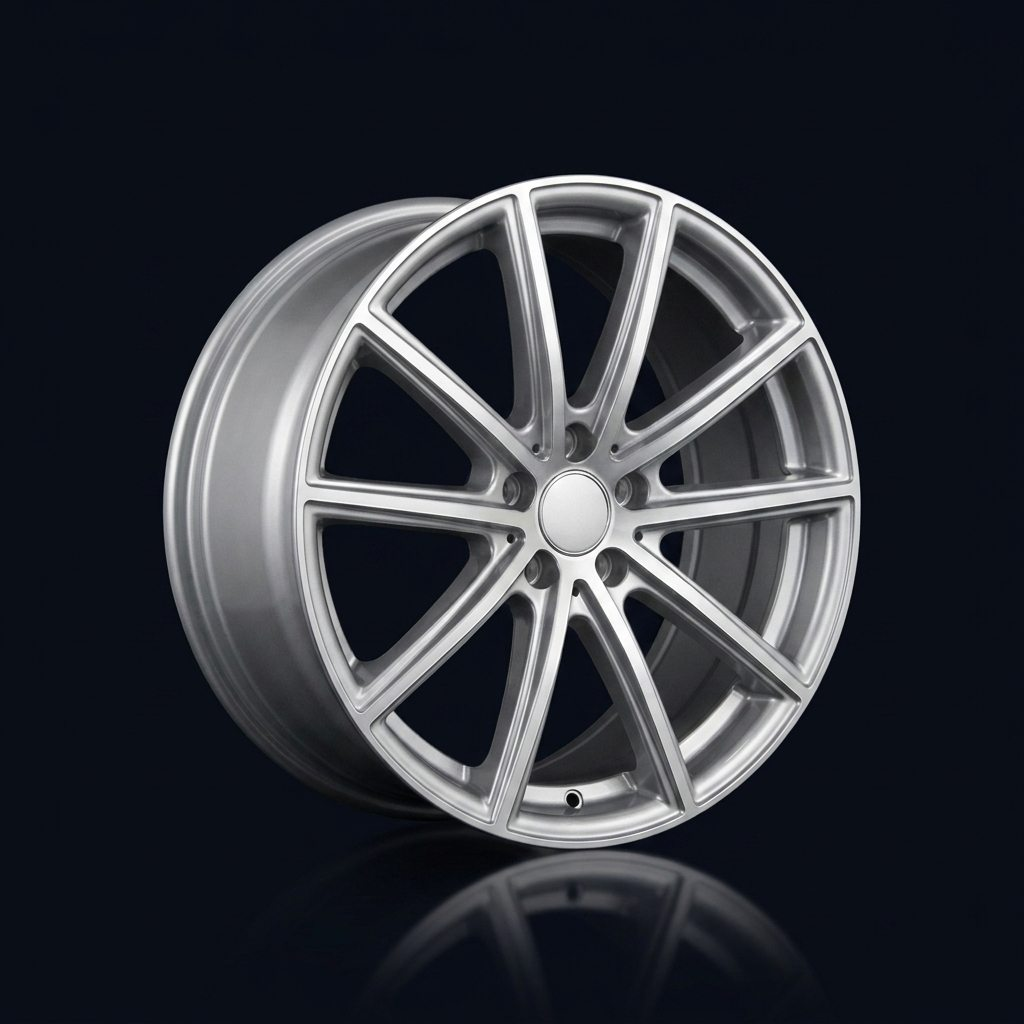
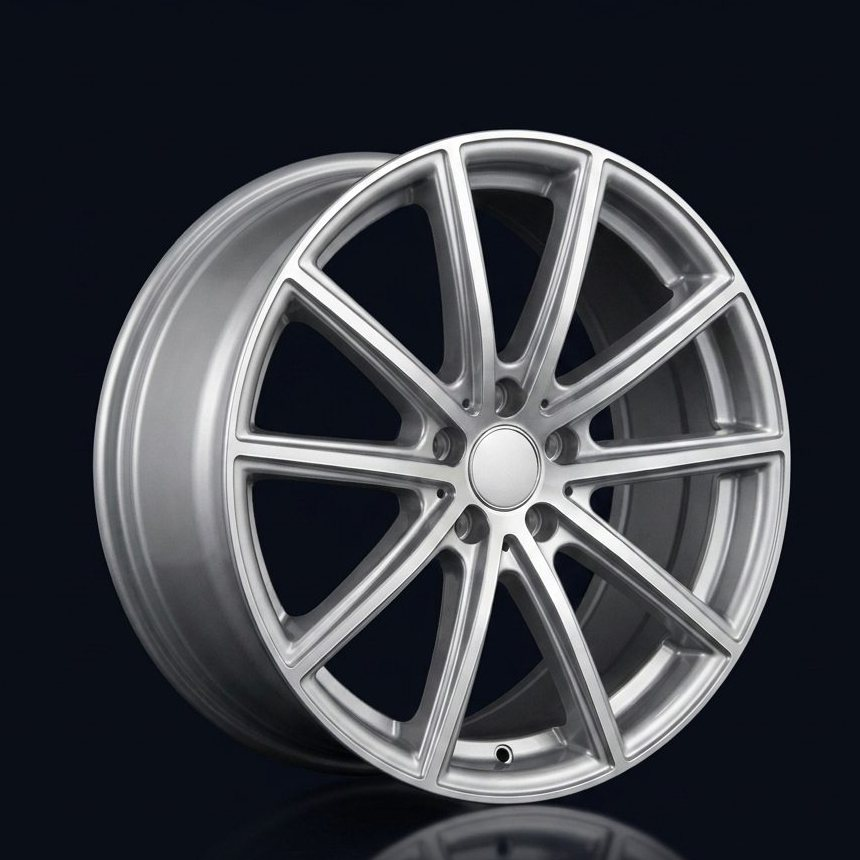
feat: mais imagens oficiais, card Google branco, copy original e hero com mais foco
- /historia: retrato dos fundadores Luiz e Olga Witkovski, colagem
  "ontem e hoje" do torno e fachada atual da loja (imagens do site
  oficial, achatadas na cor da seção para pesar 10x menos)
- Card de avaliação do Google em fundo branco (o selo 5 estrelas é
  branco) — novo componente usado na home e na /historia
- Copy das seções complementado com frases do site original ("há mais
  de 32 anos fazendo parte da sua história", "amor, dedicação e
  compromisso", "100% satisfação garantida")
- Galeria: +2 fotos reais (grade 4x3 completa, sem títulos)
- Roda do hero recortada com mais foco e máscara reposicionada

diff --git a/app/historia/page.tsx b/app/historia/page.tsx
@@ -5,6 +5,7 @@ import Header from "@/components/Header";
 import Footer from "@/components/Footer";
 import WhatsappFab from "@/components/WhatsappFab";
 import Reveal from "@/components/Reveal";
+import GoogleCard from "@/components/GoogleCard";
 import { site, timeline, waLinks } from "@/lib/site";
 
 export const metadata: Metadata = {
@@ -34,11 +35,50 @@ export default function HistoriaPage() {
                 <span className="text-gradient">amor e dedicação</span>
               </h1>
               <p className="mt-6 max-w-2xl text-lg leading-relaxed text-slate-300">
-                Em {site.since}, {site.founders} transformaram um sonho em
-                realidade no coração do bairro Xaxim. Hoje, a Rodas de Liga Leve
-                é a maior referência em conserto e revitalização de rodas de
-                Curitiba — com mais de 50.000 rodas restauradas.
+                Excelência em conserto e revitalização de rodas de liga leve.
+                Uma tradição familiar construída com amor, dedicação e
+                compromisso — há mais de {site.years} anos fazendo parte da sua
+                história.
               </p>
+            </Reveal>
+          </div>
+        </section>
+
+        {/* Os fundadores */}
+        <section className="section-light py-24 md:py-28">
+          <div className="mx-auto grid max-w-7xl grid-cols-1 items-center gap-12 px-5 md:grid-cols-2 md:px-10">
+            <Reveal>
+              <Image
+                src="/historia/fundadores.jpg"
+                alt="Luiz e Olga Witkovski, fundadores da Rodas de Liga Leve"
+                width={900}
+                height={900}
+                className="mx-auto w-full max-w-md"
+              />
+            </Reveal>
+            <Reveal delay={0.08}>
+              <div className="mb-4 flex items-center gap-3">
+                <span className="h-px w-10 bg-brand" />
+                <span className="text-xs font-semibold uppercase tracking-[0.3em] text-brand-700">
+                  Os fundadores
+                </span>
+              </div>
+              <h2 className="font-display text-3xl font-extrabold leading-tight text-ink md:text-5xl">
+                Luiz e Olga <span className="text-gradient">Witkovski</span>
+              </h2>
+              <div className="mt-5 space-y-4 text-slate-600">
+                <p>
+                  Em {site.since}, Luiz e Olga Witkovski transformaram um sonho
+                  em realidade no coração do bairro Xaxim, fundando a empresa
+                  Rodas de Liga Leve.
+                </p>
+                <p>
+                  O que começou como uma pequena oficina de família virou a
+                  maior referência em conserto de rodas de Curitiba — mais de
+                  50.000 rodas restauradas, uma geração passando o ofício para
+                  a outra, e o mesmo cuidado de sempre em cada peça.
+                </p>
+              </div>
             </Reveal>
           </div>
         </section>
@@ -62,6 +102,36 @@ export default function HistoriaPage() {
                 </div>
               </div>
             </Reveal>
+
+            {/* Ontem e hoje */}
+            <div className="mt-6 grid grid-cols-1 gap-6 md:grid-cols-2">
+              <Reveal>
+                <Image
+                  src="/historia/torno-ontem-hoje.jpg"
+                  alt="Luiz no primeiro torno da oficina, rasgando para o torno CNC atual"
+                  width={1100}
+                  height={846}
+                  className="w-full rounded-3xl border border-white/10"
+                />
+                <p className="mt-3 text-sm text-slate-400">
+                  Do primeiro torno ao CNC de hoje — a precisão é a mesma desde{" "}
+                  {site.since}.
+                </p>
+              </Reveal>
+              <Reveal delay={0.08}>
+                <Image
+                  src="/historia/fachada.jpg"
+                  alt="Fachada atual da Rodas de Liga Leve no Xaxim"
+                  width={1100}
+                  height={1126}
+                  className="w-full rounded-3xl border border-white/10"
+                />
+                <p className="mt-3 text-sm text-slate-400">
+                  Nossa casa hoje: revitalização e vendas de rodas na Rua Omar
+                  Raymundo Picheth, 269 — Xaxim.
+                </p>
+              </Reveal>
+            </div>
           </div>
         </section>
 
@@ -136,20 +206,9 @@ export default function HistoriaPage() {
                 </p>
               </Reveal>
               <Reveal delay={0.16}>
-                <div className="flex items-center gap-4">
-                  <Image
-                    src="/brand/5-estrelas.png"
-                    alt="Avaliação 5 estrelas no Google"
-                    width={72}
-                    height={72}
-                    className="h-16 w-16 object-contain"
-                  />
-                  <div className="font-display text-5xl font-extrabold text-white">
-                    5,0<span className="text-brand">★</span>
-                  </div>
-                </div>
-                <p className="mt-2 text-slate-400">
-                  a confiança de Curitiba, construída peça por peça, de pai para
+                <GoogleCard />
+                <p className="mt-3 text-sm text-slate-400">
+                  A confiança de Curitiba, construída peça por peça, de pai para
                   filho.
                 </p>
               </Reveal>

diff --git a/components/GoogleCard.tsx b/components/GoogleCard.tsx
@@ -1,0 +1,46 @@
+import Image from "next/image";
+import { site } from "@/lib/site";
+
+/**
+ * Card de avaliação do Google — fundo branco (o selo 5 estrelas tem fundo
+ * branco, então o card acompanha). Usado na home e na página de história.
+ */
+export default function GoogleCard({ className = "" }: { className?: string }) {
+  const reviewsUrl = `https://www.google.com/maps/search/?api=1&query=${encodeURIComponent(
+    site.mapsQuery
+  )}`;
+
+  return (
+    <div
+      className={`flex items-center gap-5 rounded-3xl border border-slate-200 bg-white p-6 shadow-[0_10px_36px_-16px_rgba(16,42,100,0.25)] ${className}`}
+    >
+      <Image
+        src="/brand/5-estrelas.png"
+        alt="Selo 5 estrelas Rodas de Liga Leve no Google"
+        width={96}
+        height={96}
+        className="h-20 w-20 shrink-0 object-contain md:h-24 md:w-24"
+      />
+      <div className="min-w-0">
+        <div className="flex flex-wrap items-baseline gap-x-2">
+          <span className="font-display text-4xl font-extrabold text-ink">5,0</span>
+          <span className="text-lg tracking-tight text-amber-400" aria-label="5 estrelas">
+            ★★★★★
+          </span>
+        </div>
+        <p className="mt-0.5 text-sm font-medium text-slate-700">
+          Avaliações reais no Google
+        </p>
+        <p className="text-xs text-slate-500">100% satisfação garantida</p>
+        <a
+          href={reviewsUrl}
+          target="_blank"
+          rel="noopener noreferrer"
+          className="mt-2 inline-block text-sm font-semibold text-brand hover:underline"
+        >
+          Ver no Google →
+        </a>
+      </div>
+    </div>
+  );
+}

diff --git a/components/Testimonials.tsx b/components/Testimonials.tsx
@@ -2,6 +2,7 @@
 
 import { testimonials } from "@/lib/site";
 import Reveal from "./Reveal";
+import GoogleCard from "./GoogleCard";
 
 function Stars() {
   return (
@@ -18,15 +19,24 @@ export default function Testimonials() {
     <section className="section-light relative overflow-hidden py-24 md:py-28">
       <div className="mx-auto max-w-7xl px-5 md:px-10">
         <Reveal>
-          <div className="mb-4 flex items-center gap-3">
-            <span className="h-px w-10 bg-brand" />
-            <span className="text-xs font-semibold uppercase tracking-[0.3em] text-brand-700">
-              Quem confia
-            </span>
+          <div className="flex flex-wrap items-end justify-between gap-8">
+            <div>
+              <div className="mb-4 flex items-center gap-3">
+                <span className="h-px w-10 bg-brand" />
+                <span className="text-xs font-semibold uppercase tracking-[0.3em] text-brand-700">
+                  Quem confia
+                </span>
+              </div>
+              <h2 className="max-w-2xl font-display text-4xl font-extrabold leading-tight text-balance text-ink md:text-6xl">
+                Nota <span className="text-gradient">5,0</span> no Google — de gente de verdade
+              </h2>
+              <p className="mt-4 max-w-xl text-slate-600">
+                Há mais de 32 anos fazendo parte da história de milhares de
+                motoristas de Curitiba — com 100% de satisfação garantida.
+              </p>
+            </div>
+            <GoogleCard className="w-full max-w-sm" />
           </div>
-          <h2 className="max-w-3xl font-display text-4xl font-extrabold leading-tight text-balance text-ink md:text-6xl">
-            Nota <span className="text-gradient">5,0</span> no Google — de gente de verdade
-          </h2>
         </Reveal>
 
         <Reveal

diff --git a/components/Gallery.tsx b/components/Gallery.tsx
@@ -6,11 +6,13 @@ import BeforeAfter from "./BeforeAfter";
 
 // Galeria sortida: tamanhos variados, sem títulos
 const photos = [
-  { src: "/gallery/g1.jpg", cls: "col-span-2 row-span-2 aspect-square md:aspect-[4/5]" },
+  { src: "/gallery/g1.jpg", cls: "col-span-2 row-span-2 aspect-square" },
   { src: "/gallery/g3.jpg", cls: "aspect-square" },
   { src: "/gallery/g4.jpg", cls: "aspect-square" },
+  { src: "/gallery/g8.jpg", cls: "aspect-square" },
+  { src: "/gallery/g9.jpg", cls: "aspect-square" },
   { src: "/gallery/g5.jpg", cls: "col-span-2 aspect-[2/1]" },
-  { src: "/gallery/g2.jpg", cls: "col-span-2 row-span-2 aspect-square md:aspect-[4/5]" },
+  { src: "/gallery/g2.jpg", cls: "col-span-2 aspect-[2/1]" },
 ];
 
 export default function Gallery() {
@@ -27,6 +29,10 @@ export default function Gallery() {
           <h2 className="max-w-3xl font-display text-4xl font-extrabold leading-tight text-balance md:text-6xl">
             A diferença que <span className="text-gradient">se vê</span>
           </h2>
+          <p className="mt-4 max-w-2xl text-slate-300">
+            Excelência em conserto e revitalização de rodas de liga leve — há
+            mais de 32 anos fazendo parte da sua história.
+          </p>
         </Reveal>
 
         {/* Comparador em destaque: quadrado completo, alta resolução */}

diff --git a/components/Hero.tsx b/components/Hero.tsx
@@ -130,9 +130,9 @@ export default function Hero() {
               className="relative h-[520px] w-[520px] xl:h-[600px] xl:w-[600px]"
               style={{
                 maskImage:
-                  "radial-gradient(ellipse 72% 72% at 50% 50%, black 52%, transparent 76%)",
+                  "radial-gradient(ellipse 78% 78% at 50% 48%, black 60%, transparent 92%)",
                 WebkitMaskImage:
-                  "radial-gradient(ellipse 72% 72% at 50% 50%, black 52%, transparent 76%)",
+                  "radial-gradient(ellipse 78% 78% at 50% 48%, black 60%, transparent 92%)",
               }}
             >
               <Image